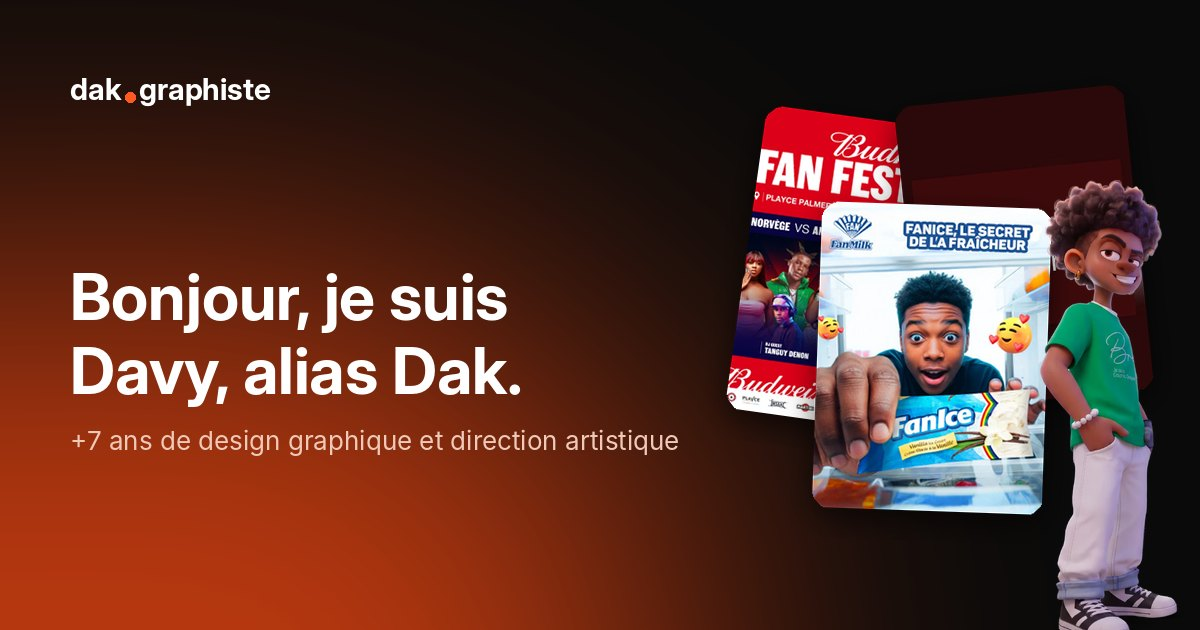
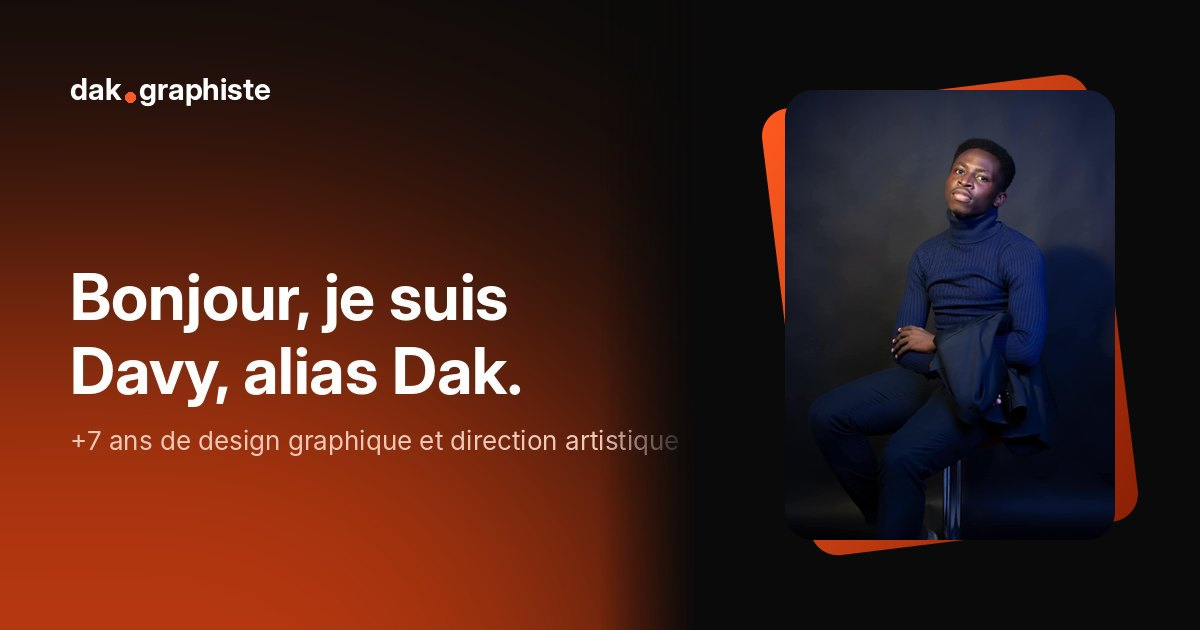
Portrait de Davy sur À propos ; études de cas réorganisées sans images en double, section « Le rendu final »
Claude-Session: https://claude.ai/code/session_01XsNVK2n95bQxHr2bLqedGz

Changed region(s): [[0.4933, 0.1206, 0.9867, 1.0]]

diff --git a/src/styles/case.css b/src/styles/case.css
@@ -197,3 +197,26 @@
   .reel-bar, .reel-count { display: none; }
 }
 html.reduced .reel-img img { transform: none; }
+
+/* ---------- le rendu final : la carte s'ouvre en plein écran ---------- */
+.showcase { position: relative; height: 210vh; background: #0A0A0A; color: #fff; }
+.sc-pin { position: sticky; top: 0; height: 100vh; overflow: hidden; display: flex; align-items: center; justify-content: center; }
+.sc-frame { position: absolute; inset: 0; margin: 0; clip-path: inset(16% 22% 16% 22% round 28px); will-change: clip-path; }
+.sc-frame img { width: 100%; height: 100%; object-fit: cover; transform: scale(1.25); will-change: transform; }
+.sc-pin::after { content: ''; position: absolute; inset: auto 0 0 0; height: 45%; background: linear-gradient(180deg, transparent, rgba(0,0,0,.55)); pointer-events: none; }
+.sc-cap { position: absolute; left: var(--gutter); bottom: 120px; z-index: 2; display: flex; flex-direction: column; gap: 6px; text-shadow: 0 2px 20px rgba(0,0,0,.6); }
+.sc-cap h2 { margin: 0; font-family: var(--font-display); font-size: clamp(40px, 6vw, 96px); letter-spacing: -0.04em; line-height: 1; }
+.sc-cap .tw { color: var(--p2, #FFB38F); font-size: 14px; }
+.sc-cap .muted { color: rgba(255,255,255,.75); }
+@media (max-width: 860px) {
+  .showcase { height: auto; padding: 70px 0 40px; }
+  .sc-pin { position: relative; height: auto; display: block; padding: 0 var(--gutter); }
+  .sc-frame { position: relative; clip-path: none; border-radius: 22px; overflow: hidden; }
+  .sc-frame img { height: auto; transform: none; }
+  .sc-cap { position: static; margin-top: 20px; text-shadow: none; }
+  .sc-pin::after { display: none; }
+}
+html.reduced .showcase { height: auto; }
+html.reduced .sc-pin { position: relative; }
+html.reduced .sc-frame { clip-path: none; }
+html.reduced .sc-frame img { transform: none; }

diff --git a/src/scripts/case.ts b/src/scripts/case.ts
@@ -144,3 +144,15 @@ document.querySelectorAll<HTMLElement>('[data-reel]').forEach((sec) => {
   });
   slides[0]?.classList.add('is-on');
 });
+
+/* ---- le rendu final : la carte s'agrandit jusqu'au plein écran pendant le défilement ---- */
+document.querySelectorAll<HTMLElement>('[data-showcase]').forEach((sec) => {
+  if (reduced || !window.matchMedia('(min-width: 861px)').matches) return;
+  const frame = sec.querySelector<HTMLElement>('[data-sc-frame]')!;
+  const img = sec.querySelector<HTMLElement>('[data-sc-img]');
+  const cap = sec.querySelector<HTMLElement>('[data-sc-cap]');
+  gsap.timeline({ scrollTrigger: { trigger: sec, start: 'top top', end: 'bottom bottom', scrub: 0.6 } })
+    .fromTo(frame, { clipPath: 'inset(16% 22% 16% 22% round 28px)' }, { clipPath: 'inset(0% 0% 0% 0% round 0px)', ease: 'power2.inOut', duration: 1 })
+    .fromTo(img, { scale: 1.25 }, { scale: 1, ease: 'none', duration: 1 }, 0)
+    .fromTo(cap, { opacity: 0, y: 40 }, { opacity: 1, y: 0, duration: 0.4 }, 0.55);
+});
